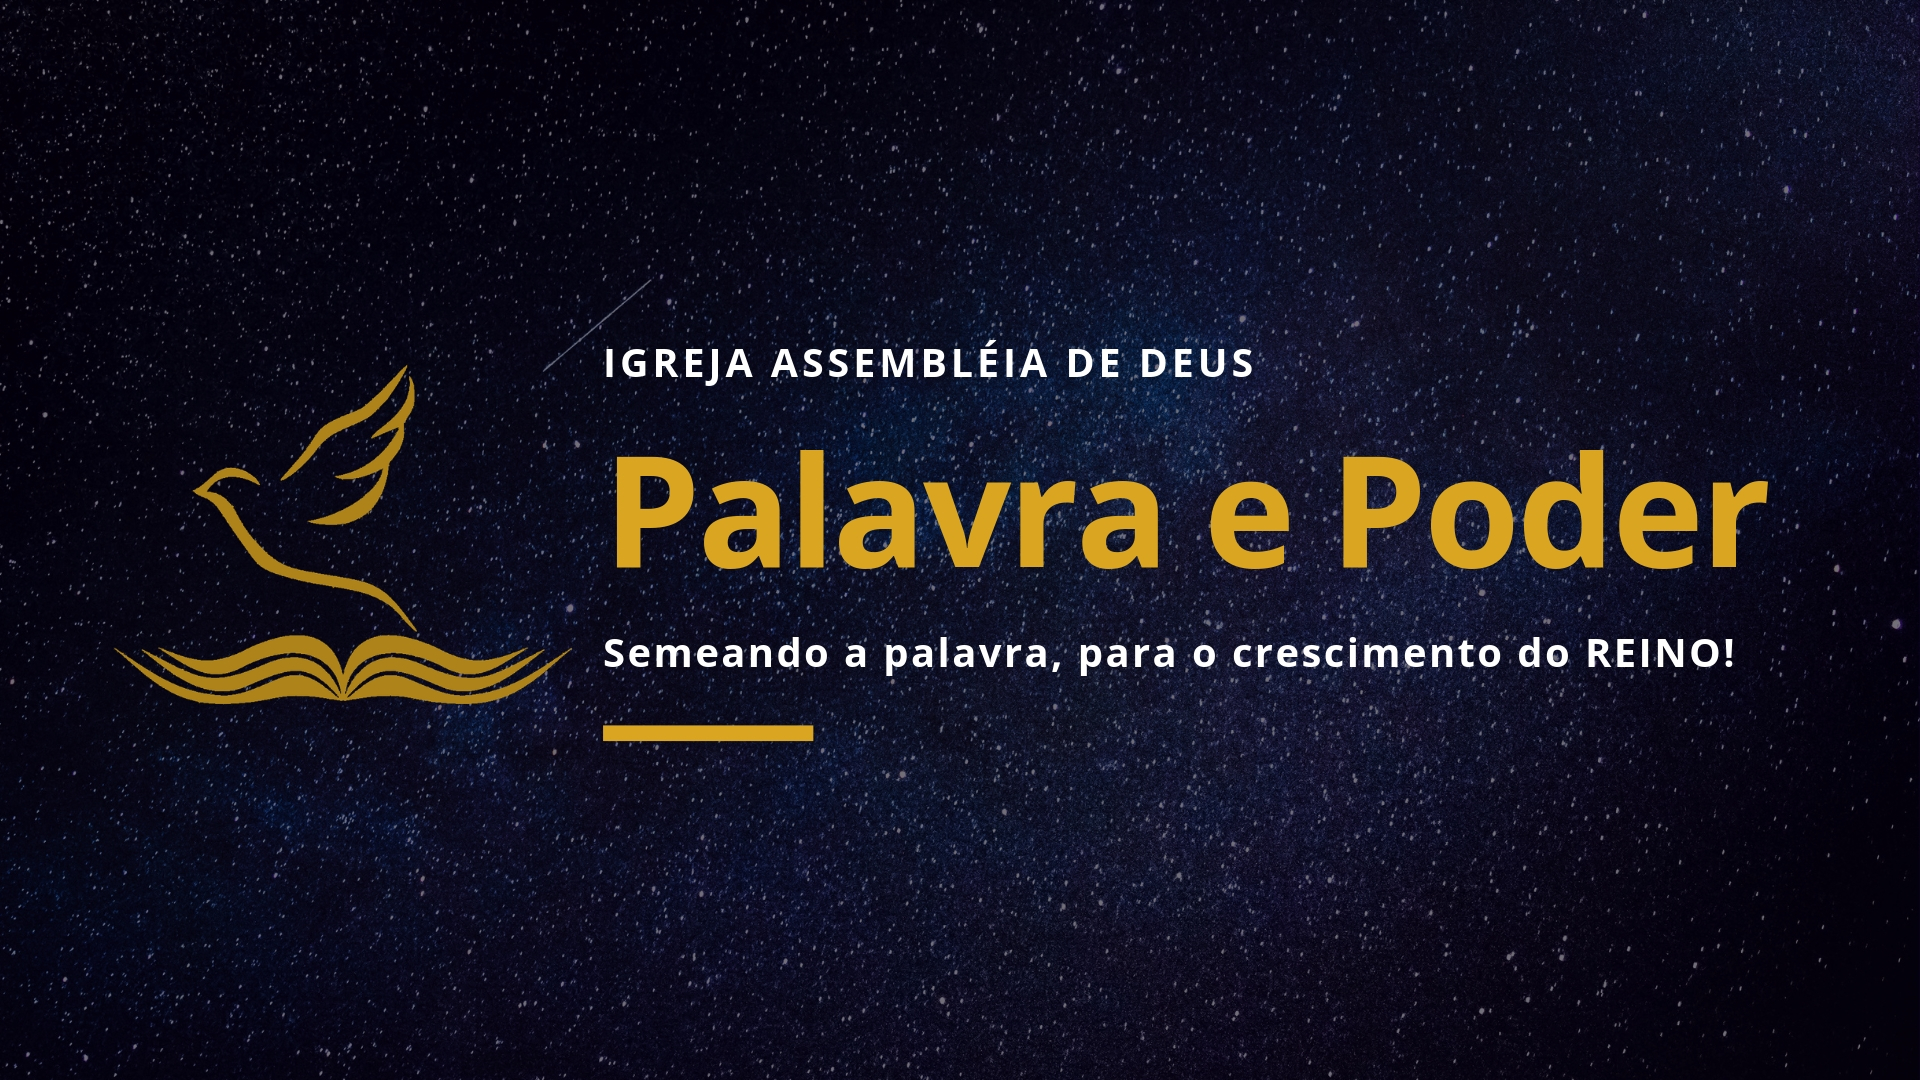
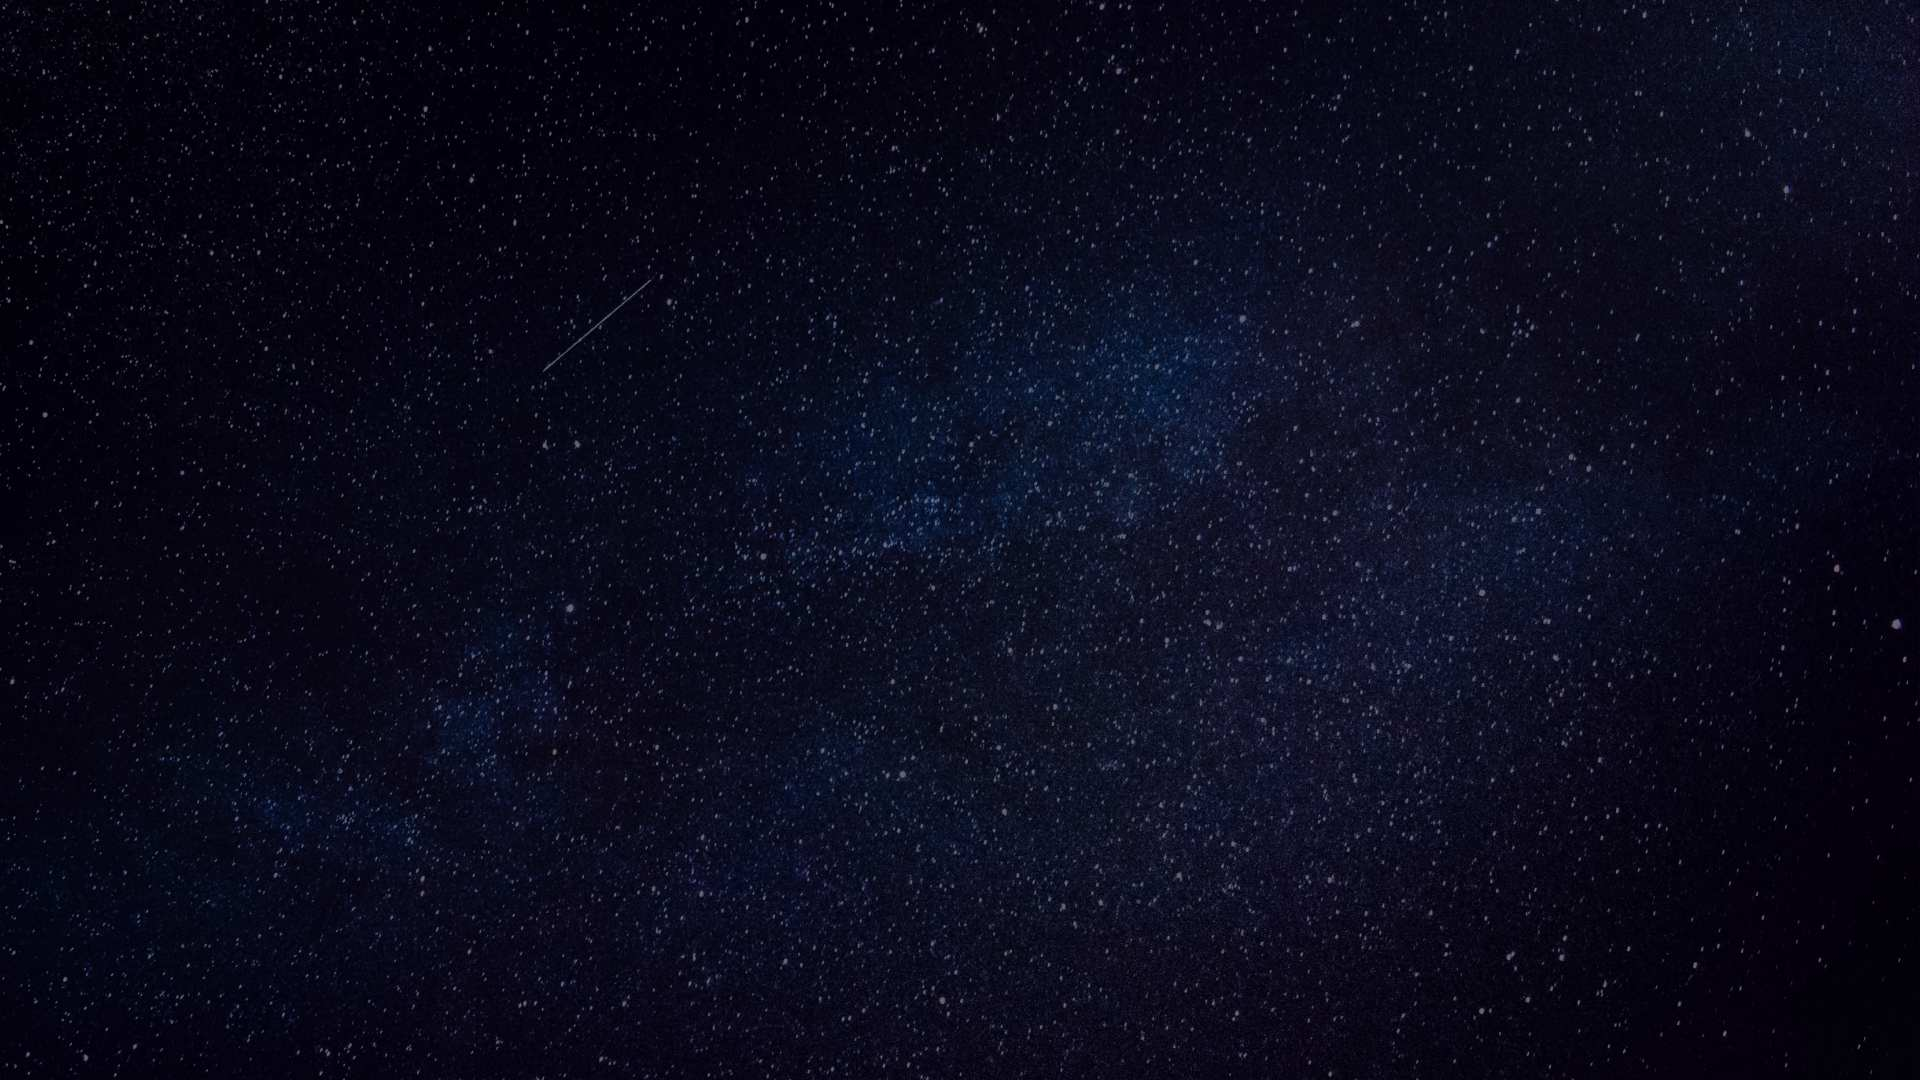
ajustando algumas imgs

diff --git a/Site AdPalavraePoder/css/estilo.css b/Site AdPalavraePoder/css/estilo.css
@@ -29,7 +29,7 @@ section{
 }
 
 .fundo{
-    background: url(../img/2.png);
+    background: url(../img/capa.jpg);
     background-attachment: fixed;
     width: 100%;
     height: 520px;
